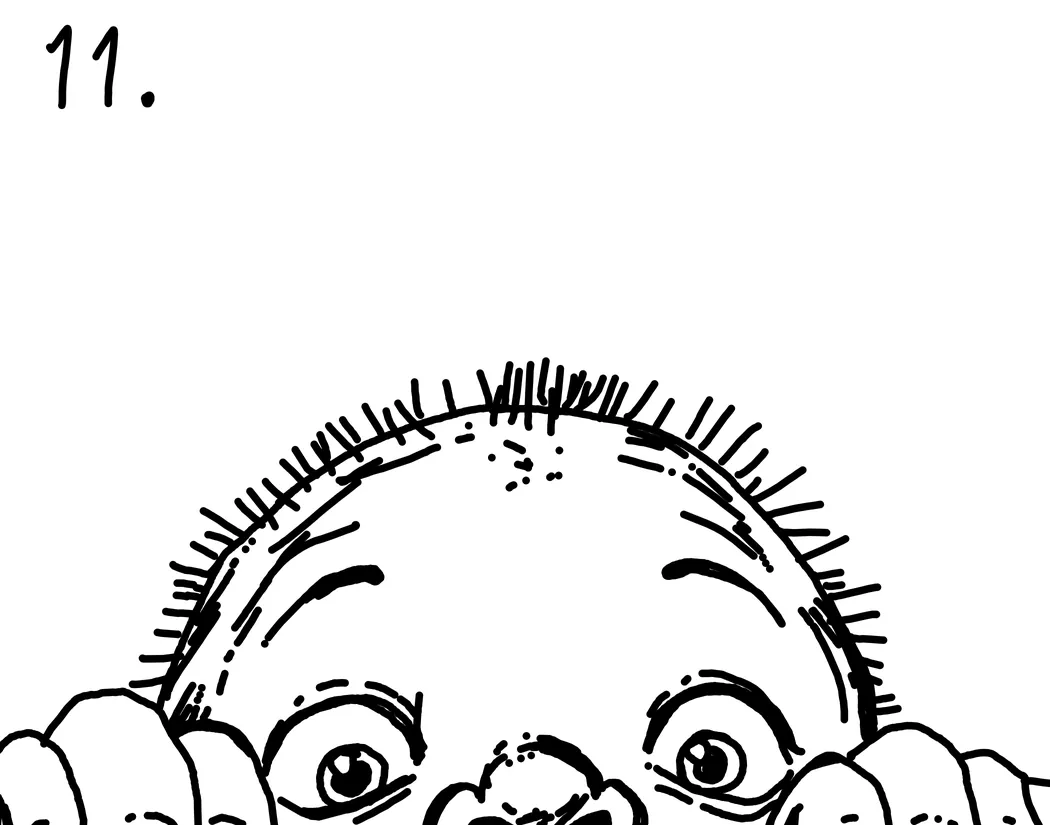
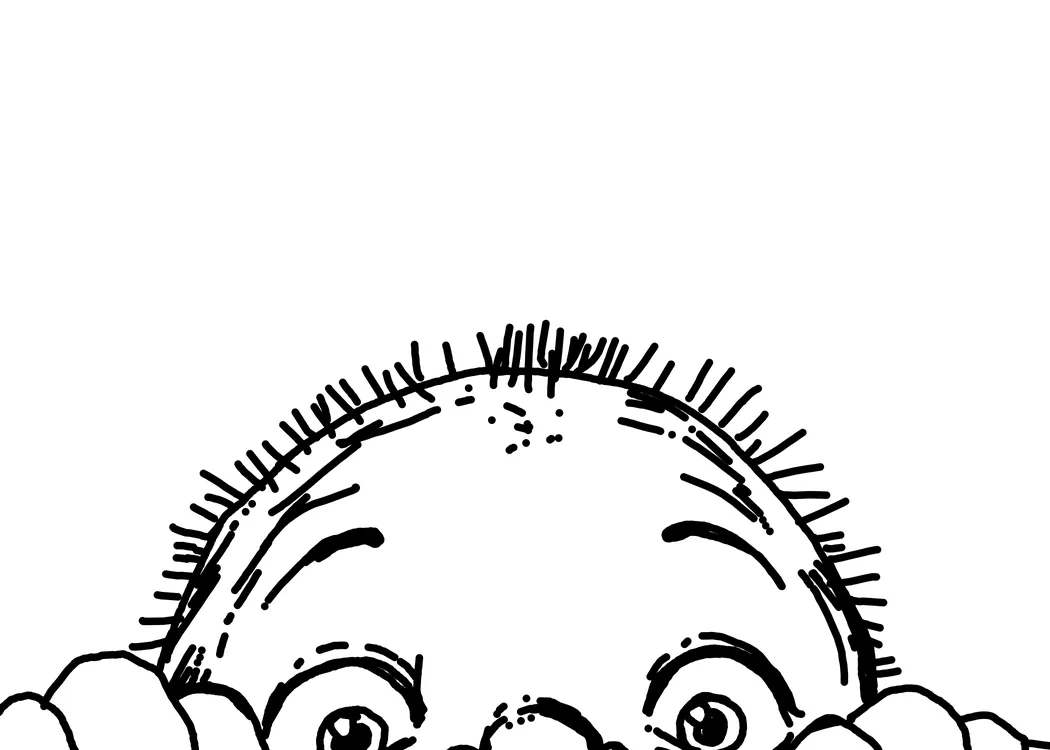
Home: Dill's frames trimmed to 7 by 5, the pencil numbers taken off

Changed region(s): [[0.0, 0.4293, 1.0, 1.0], [0.0305, 0.0307, 0.1524, 0.1227]]

diff --git a/filament.css b/filament.css
@@ -210,7 +210,7 @@ p { margin: 0 0 1.1em; }
 
 /* Twenty frames of Dill, above everything, because it is the one thing here that can
    be bought today. Two across on a phone and four on a wide screen, so twenty always
-   fills its rows. Tiles are 14 by 11 like the drawings. A scan sits on a
+   fills its rows. Tiles are 7 by 5 like the pieces. A scan sits on a
    Bone panel for the same reason the worm does: cut paper wants paper behind it. */
 .twenty { margin: 0 0 3.5rem; }
 .twenty .row { display: flex; align-items: baseline; gap: 1rem; }
@@ -225,7 +225,7 @@ p { margin: 0 0 1.1em; }
 /* The loop: every frame stacked in one box, one showing. The drawings are black
    line on white, so they are multiplied onto the Bone panel and the white becomes
    the page's own paper. A scanned paper cut is left alone. */
-.twenty .loop { position: relative; aspect-ratio: 14 / 11; background: var(--bone); margin: 0 0 1.5rem; overflow: hidden; }
+.twenty .loop { position: relative; aspect-ratio: 7 / 5; background: var(--bone); margin: 0 0 1.5rem; overflow: hidden; }
 .twenty .loop img { position: absolute; inset: 0; width: 100%; height: 100%; object-fit: cover; opacity: 0; }
 .twenty .loop img.on { opacity: 1; }
 .twenty img.drawn, .twenty .drawn .pic img { mix-blend-mode: multiply; }
@@ -236,7 +236,7 @@ p { margin: 0 0 1.1em; }
 }
 @media (min-width: 34rem) { .twenty .grid { grid-template-columns: repeat(4, 1fr); } }
 .twenty .piece { display: block; }
-.twenty .pic { aspect-ratio: 14 / 11; background: var(--bone); overflow: hidden; }
+.twenty .pic { aspect-ratio: 7 / 5; background: var(--bone); overflow: hidden; }
 .twenty .pic img { width: 100%; height: 100%; object-fit: cover; opacity: .92; transition: opacity var(--slow); }
 .twenty a.piece:hover .pic img { opacity: 1; }
 .twenty .cap { display: flex; justify-content: space-between; margin-top: .4rem; color: var(--dim); }
